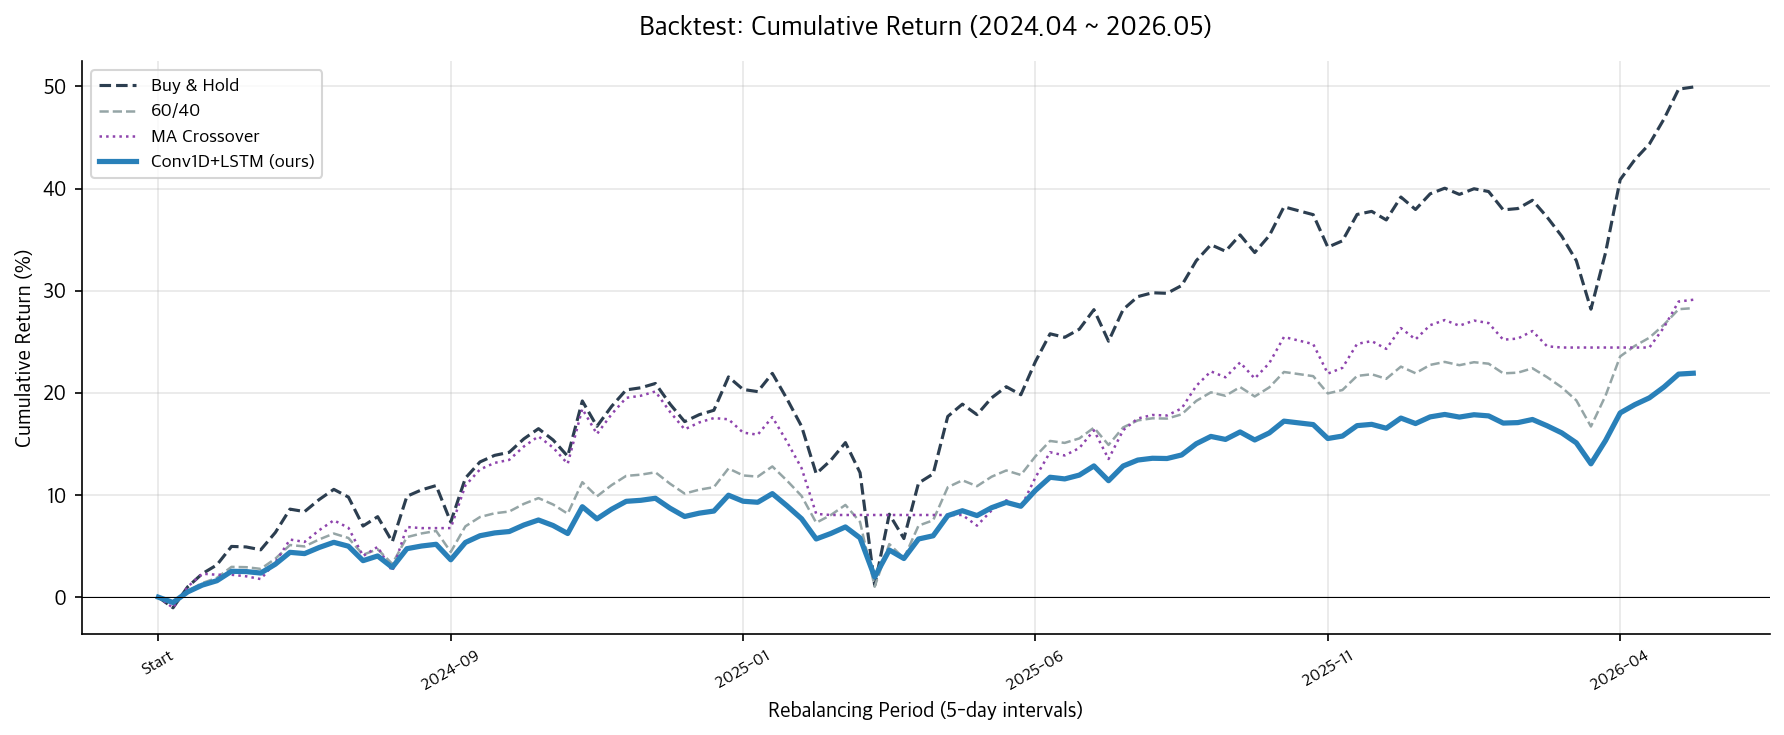
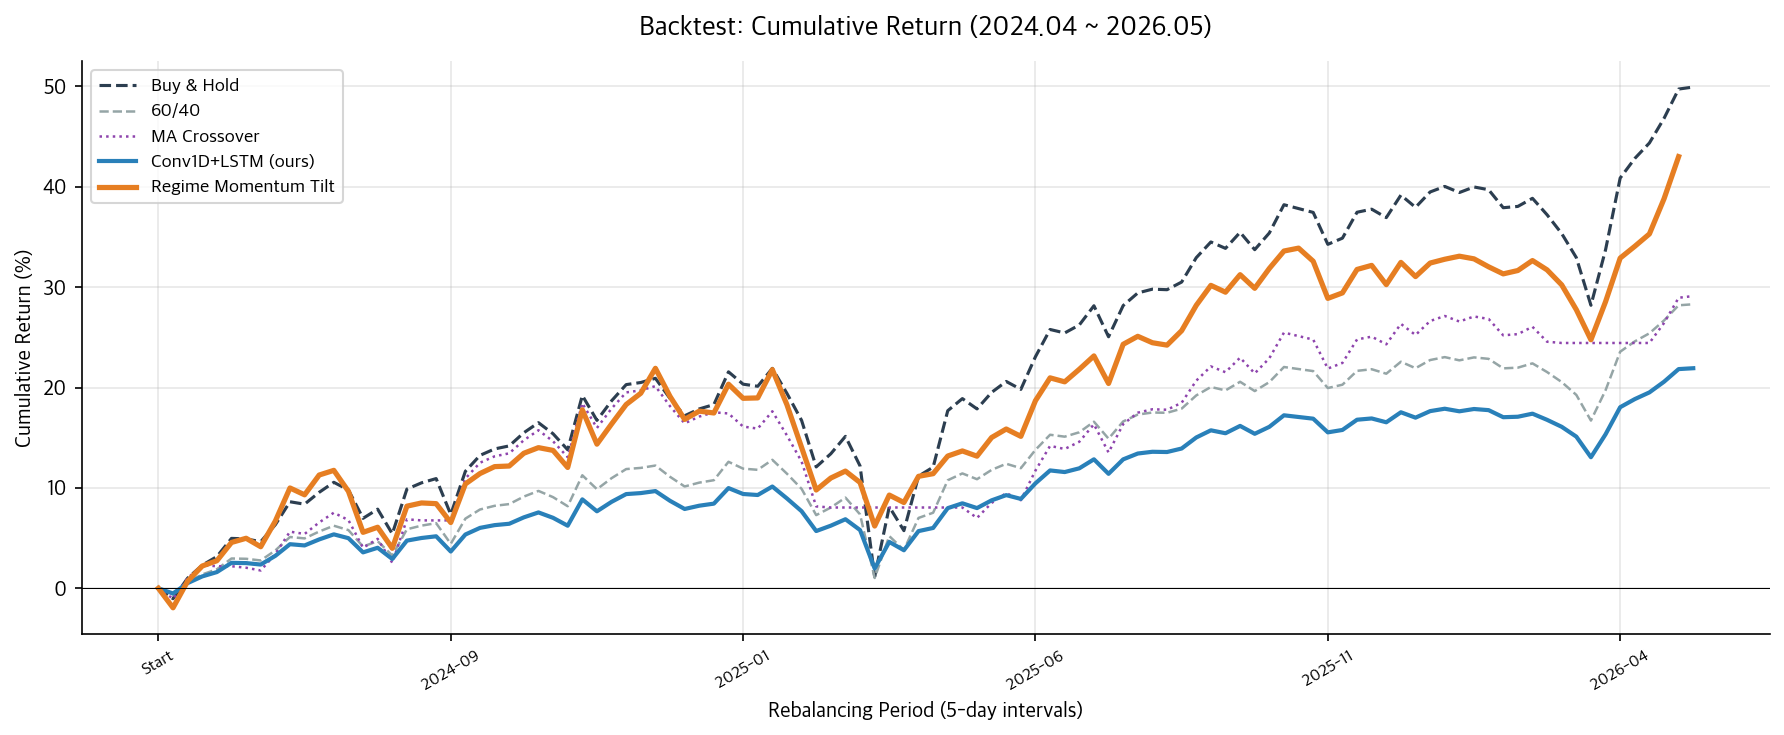
fix: fig2/fig3에 Regime Momentum Tilt 추가
- fig2 누적수익률 곡선에 Regime Momentum Tilt 라인 추가 (주황)
- fig3 전략 비교 막대에 Regime Momentum Tilt 추가 (Calmar 1.46 1위)
- backtest_regime_momentum_results.json 병합하여 전체 8개 전략 비교

diff --git a/scripts/visualize.py b/scripts/visualize.py
@@ -137,17 +137,62 @@ ma_weights = [
     for r in test_rows
 ]
 
+# Regime Momentum Tilt 수익률 계산 (weights CSV 사용)
+qqq_prices = {}
+gld_prices = {}
+tlt_prices = {}
+for fname, d in [("data/raw/qqq_daily.csv", qqq_prices),
+                 ("data/raw/gld_daily.csv",  gld_prices),
+                 ("data/raw/tlt_daily.csv",  tlt_prices)]:
+    with open(fname) as f:
+        for row in csv.DictReader(f):
+            d[row["Date"]] = float(row["Adj Close"])
+
+wt_rows = list(csv.DictReader(open("outputs/results/backtest_regime_momentum_weights.csv")))
+rmt_weights = []
+for row in wt_rows:
+    rmt_weights.append({
+        "SPY": float(row["SPY"]), "QQQ": float(row["QQQ"]),
+        "GLD": float(row["GLD"]), "TLT": float(row["TLT"]),
+        "CASH": float(row["CASH"]),
+    })
+
+def get_price(d, date):
+    return d.get(date, None)
+
+def rmt_curve(wt_rows_list, rmt_w, spy_p, qqq_p, gld_p, tlt_p, cost=0.001):
+    cum = [1.0]
+    prev_w = None
+    asset_prices = {"SPY": spy_p, "QQQ": qqq_p, "GLD": gld_p, "TLT": tlt_p}
+    for i, (row, w) in enumerate(zip(wt_rows_list[:-1], rmt_w[:-1])):
+        d0 = row["date"]
+        d1 = wt_rows_list[i + 1]["date"]
+        ret = 0.0
+        for asset, p in asset_prices.items():
+            p0, p1 = get_price(p, d0), get_price(p, d1)
+            if p0 and p1 and p0 > 0:
+                ret += w[asset] * (p1 / p0 - 1)
+        tc = 0.0
+        if prev_w:
+            tc = sum(abs(w[a] - prev_w[a]) for a in asset_prices) * cost
+        cum.append(cum[-1] * (1 + ret - tc))
+        prev_w = w
+    return np.array(cum)
+
+rmt_cum = rmt_curve(wt_rows, rmt_weights, spy_prices, qqq_prices, gld_prices, tlt_prices)
+
 strategies = {
-    "Buy & Hold":         np.ones(n),
-    "60/40":              np.full(n, 0.6),
-    "MA Crossover":       np.array(ma_weights),
-    "Conv1D+LSTM (ours)": w_model,
+    "Buy & Hold":              np.ones(n),
+    "60/40":                   np.full(n, 0.6),
+    "MA Crossover":            np.array(ma_weights),
+    "Conv1D+LSTM (ours)":      w_model,
 }
 style = {
-    "Buy & Hold":         ("--", "#2C3E50", 1.5),
-    "60/40":              ("--", COLORS["gray"], 1.2),
-    "MA Crossover":       (":",  "#8E44AD", 1.2),
-    "Conv1D+LSTM (ours)": ("-",  COLORS["model"], 2.5),
+    "Buy & Hold":              ("--", "#2C3E50", 1.5),
+    "60/40":                   ("--", COLORS["gray"], 1.2),
+    "MA Crossover":            (":",  "#8E44AD", 1.2),
+    "Conv1D+LSTM (ours)":      ("-",  COLORS["model"], 2.0),
+    "Regime Momentum Tilt":    ("-",  "#E67E22", 2.5),
 }
 
 fig, ax = plt.subplots(figsize=(12, 5))
@@ -156,6 +201,10 @@ for name, weights in strategies.items():
     ls, color, lw = style[name]
     ax.plot(range(len(curve)), (curve - 1) * 100,
             linestyle=ls, color=color, linewidth=lw, label=name)
+# Regime Momentum Tilt 별도 추가
+ls, color, lw = style["Regime Momentum Tilt"]
+ax.plot(range(len(rmt_cum)), (rmt_cum - 1) * 100,
+        linestyle=ls, color=color, linewidth=lw, label="Regime Momentum Tilt")
 
 ax.axhline(0, color="black", linewidth=0.5)
 ax.set_xlabel("Rebalancing Period (5-day intervals)")
@@ -179,13 +228,15 @@ print("Fig2 저장")
 # ══════════════════════════════════════════════════════════════════
 with open("outputs/results/backtest_results.json") as f:
     bt = json.load(f)
+with open("outputs/results/backtest_regime_momentum_results.json") as f:
+    bt_rmt = json.load(f)
 
 strat_order = ["Buy & Hold", "80/20", "60/40", "MA Crossover",
-               "Vol Targeting", "40/60", "Conv1D+LSTM (ours)"]
-sharpes  = [bt[s]["sharpe"]         for s in strat_order]
-mdds     = [abs(bt[s]["mdd"]) * 100 for s in strat_order]
-calmars  = [bt[s]["calmar"]         for s in strat_order]
-bar_colors = [COLORS["model"] if "LSTM" in s else COLORS["gray"] for s in strat_order]
+               "Vol Targeting", "40/60", "Conv1D+LSTM (ours)", "Regime Momentum Tilt"]
+sharpes  = [bt[s]["sharpe"]         if s in bt else bt_rmt.get("Regime Momentum Tilt", {}).get("sharpe", 0) for s in strat_order]
+mdds     = [abs(bt[s]["mdd"]) * 100 if s in bt else abs(bt_rmt.get("Regime Momentum Tilt", {}).get("mdd", 0)) * 100 for s in strat_order]
+calmars  = [bt[s]["calmar"]         if s in bt else bt_rmt.get("Regime Momentum Tilt", {}).get("calmar", 0) for s in strat_order]
+bar_colors = ["#E67E22" if s == "Regime Momentum Tilt" else COLORS["model"] if "LSTM" in s else COLORS["gray"] for s in strat_order]
 
 fig, axes = plt.subplots(1, 3, figsize=(14, 5))
 fig.suptitle("Strategy Comparison: Risk-Adjusted Metrics", fontsize=13, fontweight="bold")